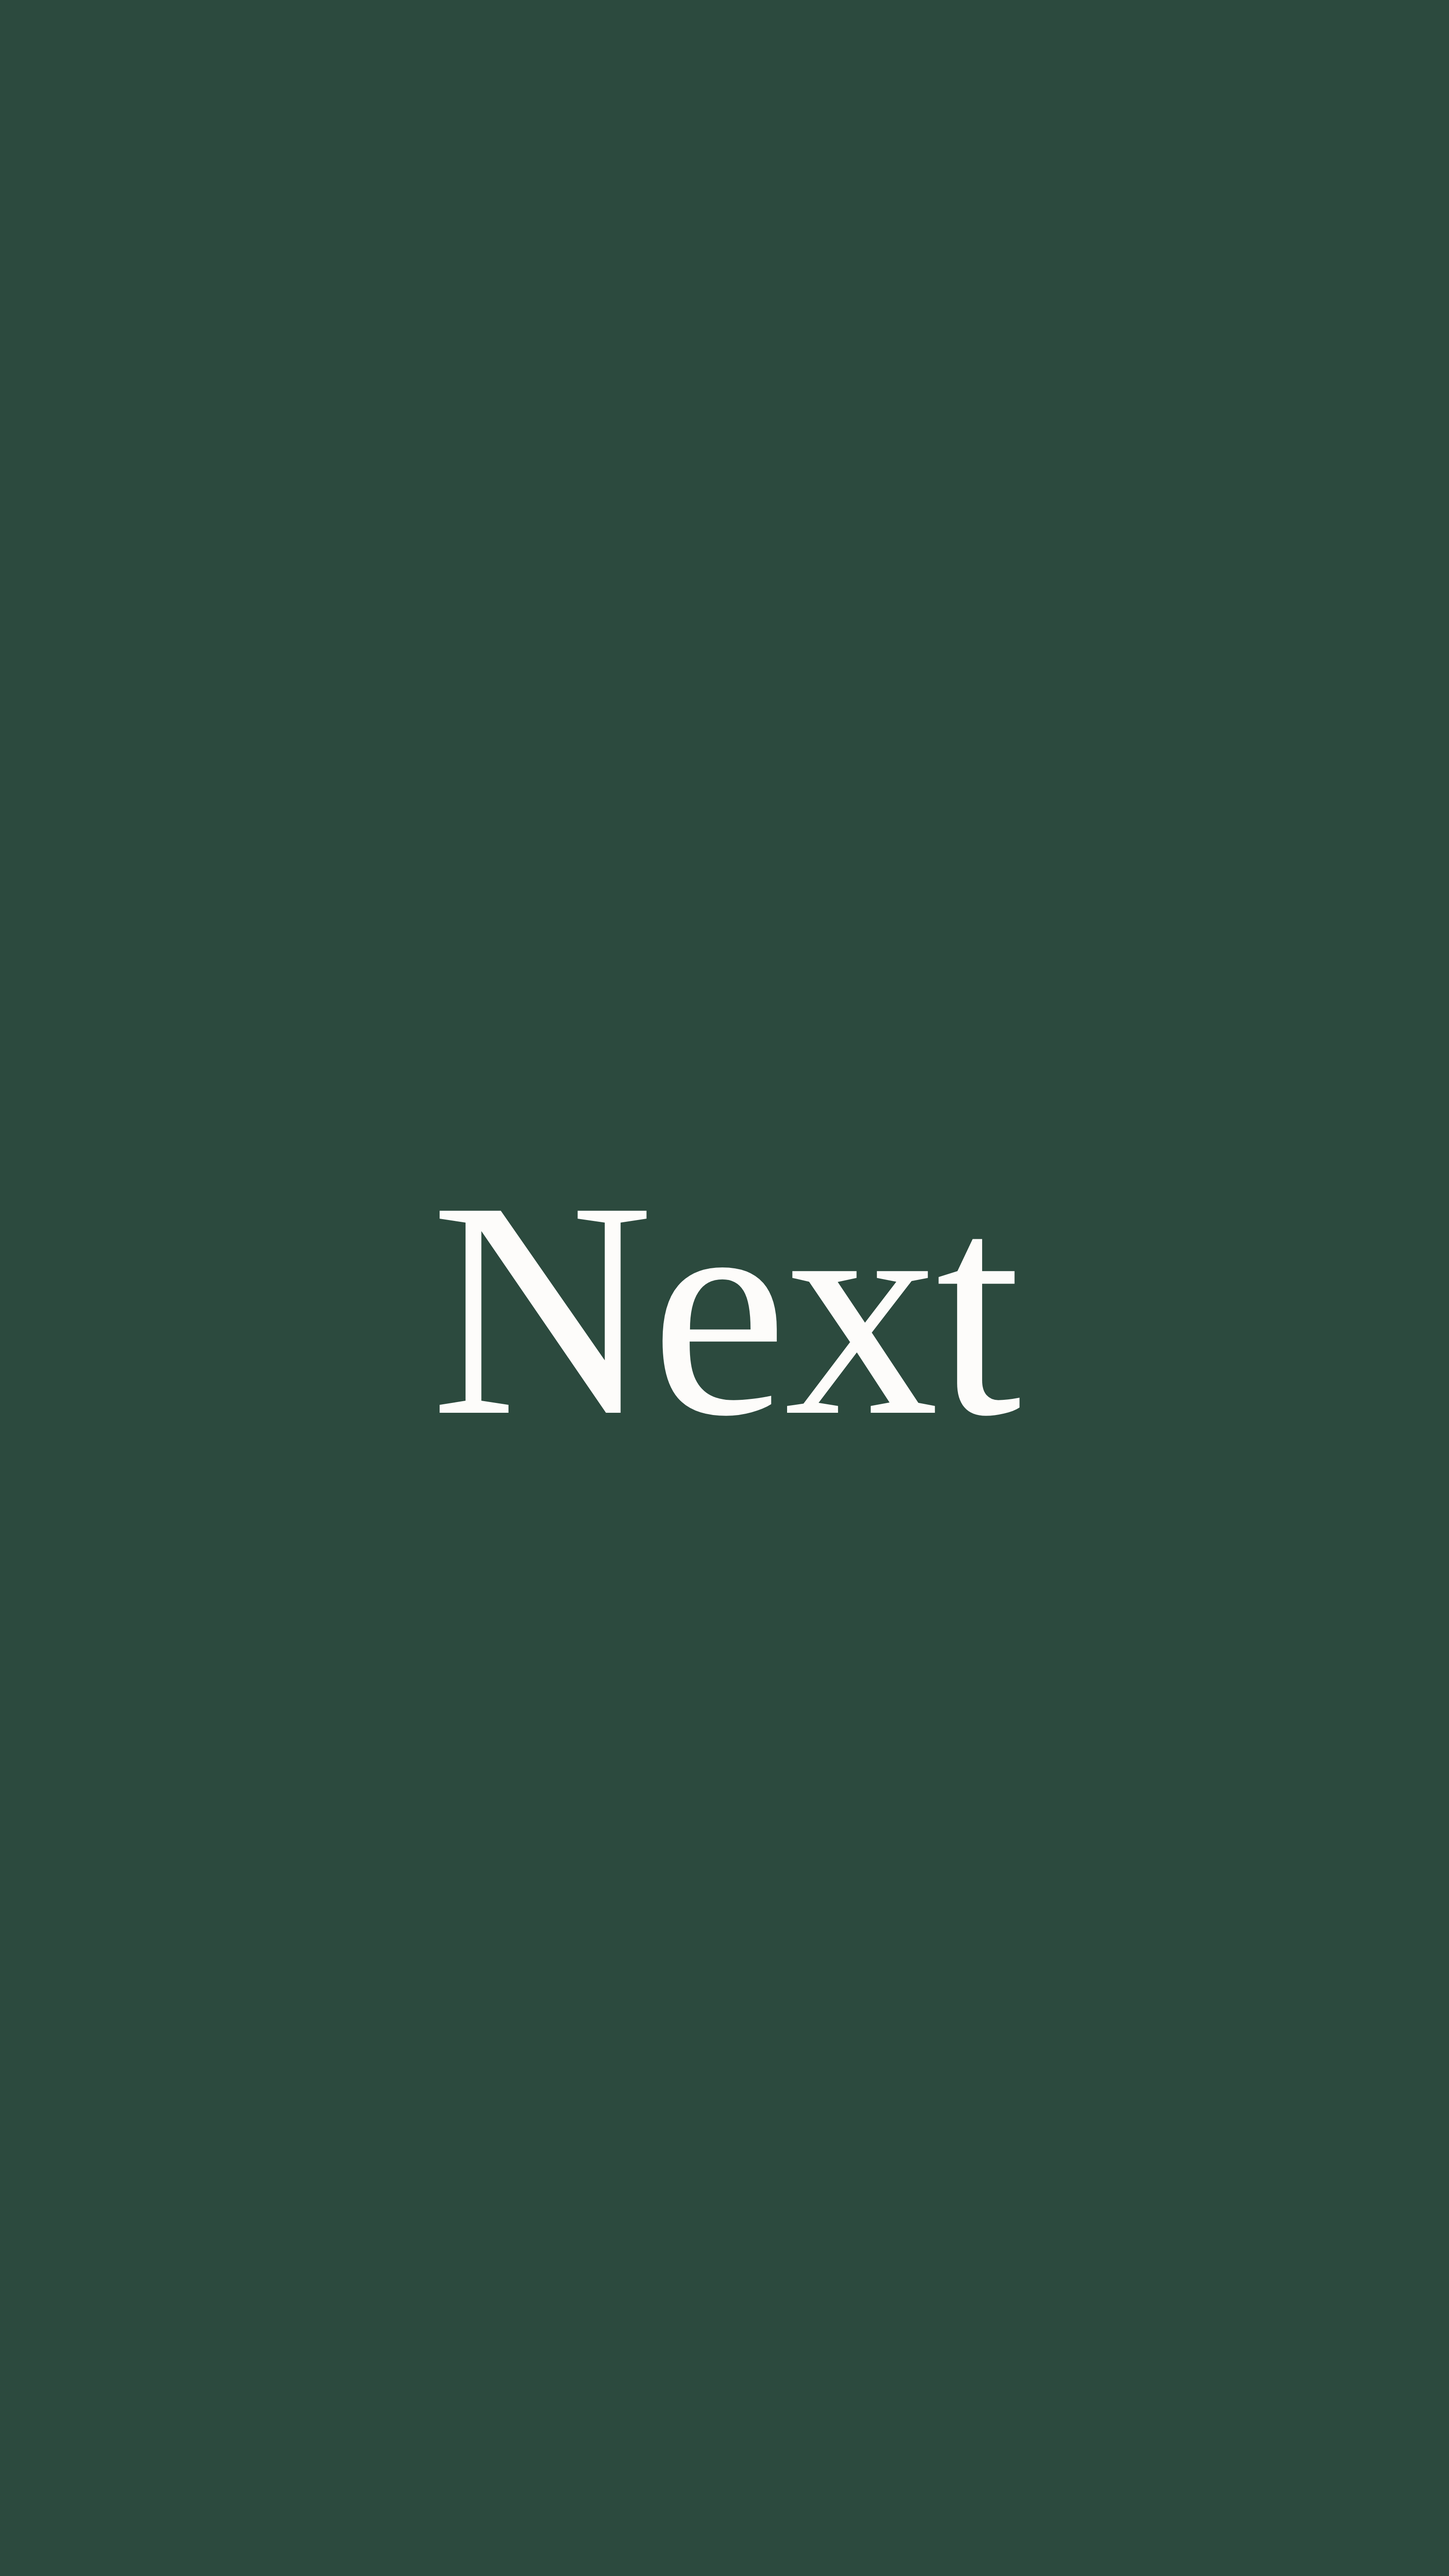
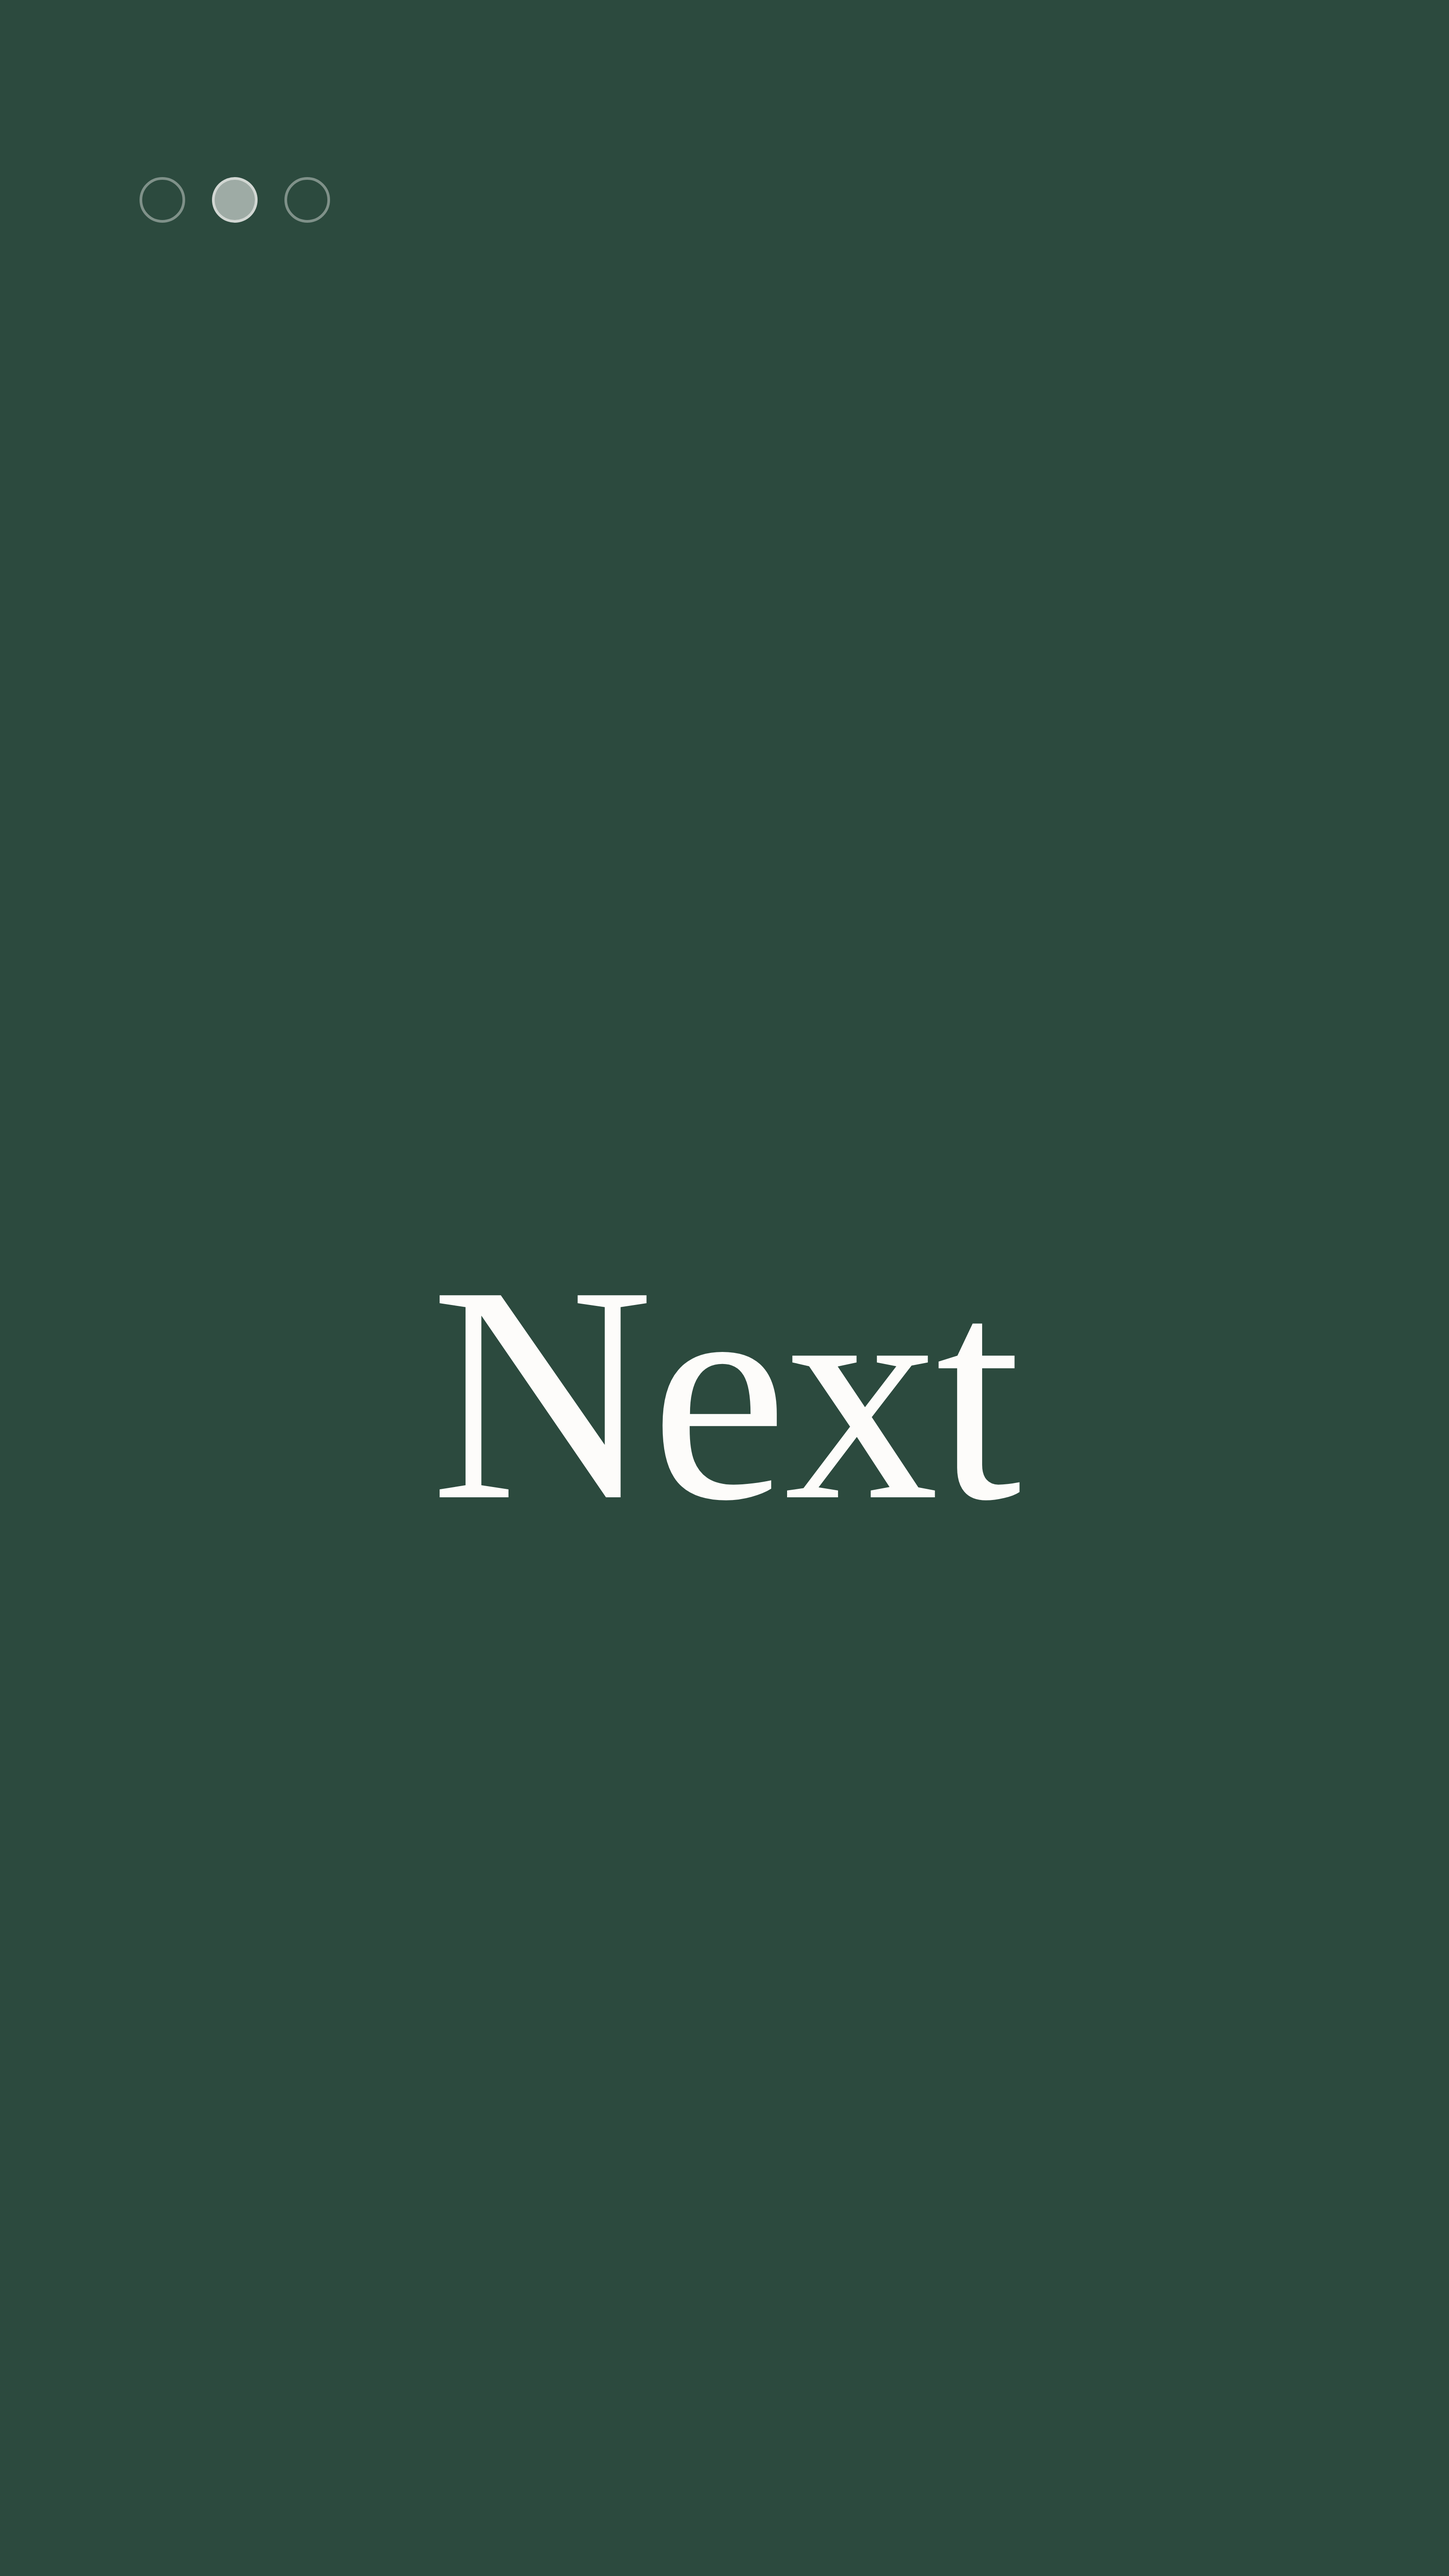
Story tweaks: Châteauneuf arc goes dark with a signup CTA, Next gets its dots
story-12: dark background instead of green, to stand apart from the
neighbouring green chapter-cover story in the batch; closing line now
tells people to sign up on the website, spots first come first served.

section-cover: was missing the chapter-dots mark every other cover slide
carries top-left (see chapter-wordmark.html, the Rhône red cover). Adds
the same dots.html include, so the Next section cover matches.

Changed region(s): [[0.3117, 0.4688, 0.6858, 0.5938], [0.1247, 0.0625, 0.187, 0.0938]]

diff --git a/_includes/story/section-cover.html b/_includes/story/section-cover.html
@@ -1,11 +1,15 @@
 {% comment %}
   Generic section cover: a single word, centered, on a solid
   background. Not tied to a tasting or chapter, reusable for archive
-  covers (e.g. "Next" for the upcoming-tastings section).
-  Params: word, story_bg (green|offwhite|dark).
+  covers (e.g. "Next" for the upcoming-tastings section). Chapter dots
+  top-left match every other cover slide (see chapter-wordmark.html).
+  Params: word, story_bg (green|offwhite|dark), dots_chapter (optional).
 {% endcomment %}
 <div class="story story--{{ page.story_bg }}">
-  <div class="story__inner story__inner--center">
-    <h1 class="story-word">{{ page.word }}</h1>
+  <div class="story__inner">
+    {% include story/dots.html chapter=page.dots_chapter %}
+    <div class="story__inner--center">
+      <h1 class="story-word">{{ page.word }}</h1>
+    </div>
   </div>
 </div>

diff --git a/assets/css/main.css b/assets/css/main.css
@@ -1579,8 +1579,8 @@ a.th-stat:hover .th-stat__num { color: var(--warm-white); }
 .story--dark .story-pair__divider,
 .story--green .story-pair__divider { background: rgba(253,252,250,0.16); }
 
-/* ── Section cover: single centered word, no eyebrow/dots ────── */
-.story__inner--center { justify-content: center; align-items: center; text-align: center; }
+/* ── Section cover: single centered word, dots top-left only ─── */
+.story__inner--center { display: flex; flex: 1 1 auto; justify-content: center; align-items: center; text-align: center; }
 .story-word {
   font-family: var(--font-serif);
   font-weight: 400;

diff --git a/stories/story-12-chateauneuf-arc.html b/stories/story-12-chateauneuf-arc.html
@@ -5,11 +5,11 @@ permalink: /stories/story-12-chateauneuf-arc.html
 sitemap: false
 tasting_slug_a: chateauneuf-du-pape-the-whites
 tasting_slug_b: chateauneuf-du-pape-the-reds
-story_bg: green
+story_bg: dark
 title: "Châteauneuf-du-Pape"
 intro: >
   Two evenings, one appellation, both colours. The Rhône Valley chapter
   closes with a pair of Châteauneuf-du-Pape tastings, back to back in
   September.
-closing: "Lineups revealed closer to each date."
+closing: "Sign up on the website. Spots go first come, first served."
 ---
